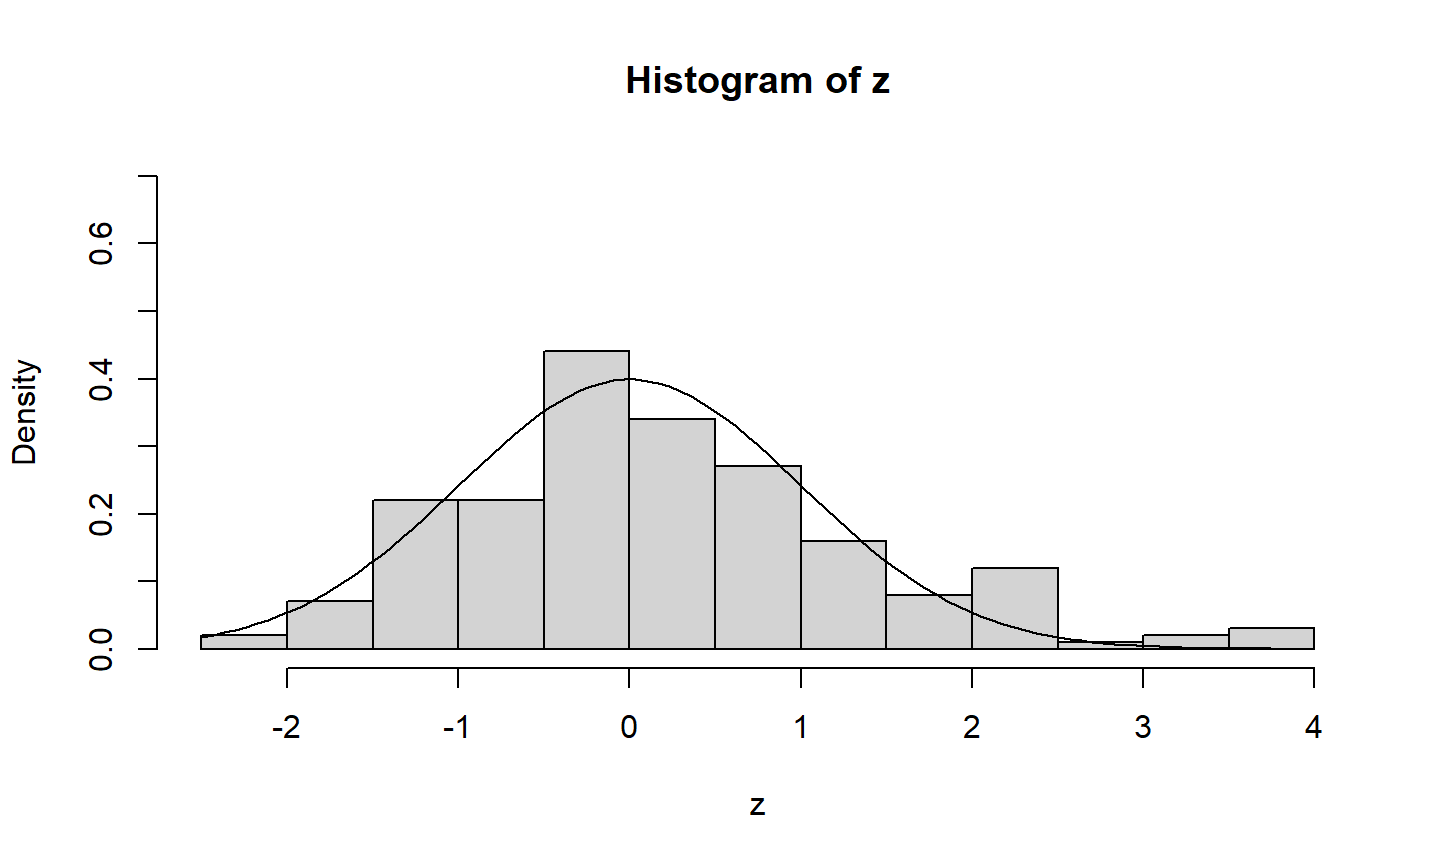
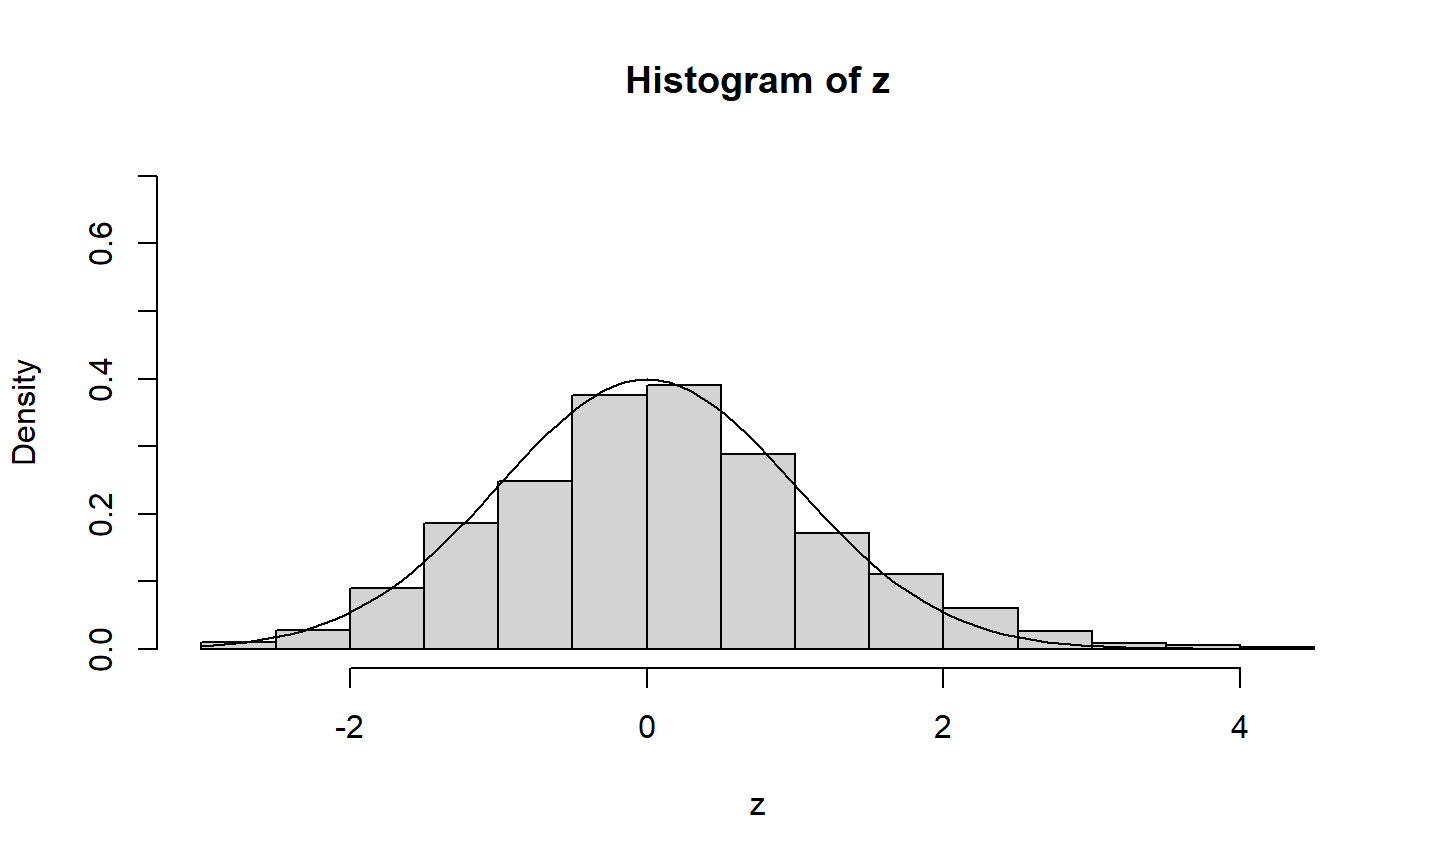
Update final project demo 2020 fall

diff --git a/stat4033/projects/genome_and_cnn/final_projects_npstats_2020.html b/stat4033/projects/genome_and_cnn/final_projects_npstats_2020.html
@@ -3258,11 +3258,11 @@ slide:not(.current) .plotly.html-widget{
 <th align="left">Problem Description</th>
 </tr>
 <tr class="odd">
-<td align="left">Leukemia Data Set</td>
+<td align="left">Prostate Cancer Data Set</td>
 <td align="left">Large-scale Simultaneous Hypothesis Testing</td>
 </tr>
 <tr class="even">
-<td align="left">Exit Poll Data</td>
+<td align="left">Exit Poll Data 2016 and 2020</td>
 <td align="left">Analyze Associations</td>
 </tr>
 </table>
@@ -3295,7 +3295,7 @@ slide:not(.current) .plotly.html-widget{
 <li>Suppose for the \(i^{th}\) variable \(x_{i}\) the two group means are \(\theta_{i,1}\) and \(\theta_{i,2}\). \[
 H_{0i}: \theta_{i,1} = \theta_{i,2} \text{ vs. } H_{1i}: \theta_{i,1} \neq \theta_{i,2}
 \]</li>
-<li>If \(H_{0i}\) is true, the group means \(\bar{x}_{i,1}\) and \(\bar{x}_{i,1}\) should be close.</li>
+<li>If \(H_{0i}\) is true, the group means \(\bar{x}_{i,1}\) and \(\bar{x}_{i,2}\) should be close.</li>
 <li>We can do an independent samples t-test for each of the \(p\) variables.</li>
 <li><strong>Multiplicity</strong> !!</li>
 </ul>
@@ -3303,31 +3303,35 @@ H_{0i}: \theta_{i,1} = \theta_{i,2} \text{ vs. } H_{1i}: \theta_{i,1} \neq \thet
 </article></slide><slide class=""><hgroup><h2>Example with Simulated Data</h2></hgroup><article  class="smaller small" id="example-with-simulated-data">
 
 <pre class = 'prettyprint lang-r'>set.seed(123)
-n = 200 ; p1 = 0.1
+n = 1000 ; p1 = 0.05
 z1 = rnorm(n*p1, 2, 1); z2 = rnorm(n*(1-p1),0, 1)
 z = c(z1,z2)
 hist(z, freq = F, ylim = c(0,0.7)); curve(dnorm, add = T)</pre>
 
[2 lines of base64/hex data omitted]
 
 </article></slide><slide class=""><hgroup><h2>Testing</h2></hgroup><article  class="smaller " id="testing">
 
 <p>Suppose, \(H_0: \mu = 0\) vs. \(H_1: \mu \ne 0\) (Simple \(Z\)-test)</p>
 
 <pre class = 'prettyprint lang-r'>rawp = 2*(1 - pnorm(abs(z)))
-reject.indices &lt;- (rawp &lt; 0.05)
+reject.indices &lt;- 1*(rawp &lt; 0.05)
 sum(reject.indices)</pre>
 
-<pre >## [1] 21</pre>
+<pre >## [1] 75</pre>
 
 <pre class = 'prettyprint lang-r'>true.indices = c(rep(1, n*p1), rep(0, n*(1-p1)))
 
 (table(true.indices,reject.indices))</pre>
 
 <pre >##             reject.indices
-## true.indices FALSE TRUE
-##            0   171    9
-##            1     8   12</pre>
+## true.indices   0   1
+##            0 899  51
+##            1  26  24</pre>
+
+<pre class = 'prettyprint lang-r'>cat(&quot;number of false discoveries&quot;, sum((true.indices==0)&amp;(reject.indices==1)))</pre>
+
+<pre >## number of false discoveries 51</pre>
 
 </article></slide><slide class=""><hgroup><h2>False rejection</h2></hgroup><article  class="smaller " id="false-rejection">
 
